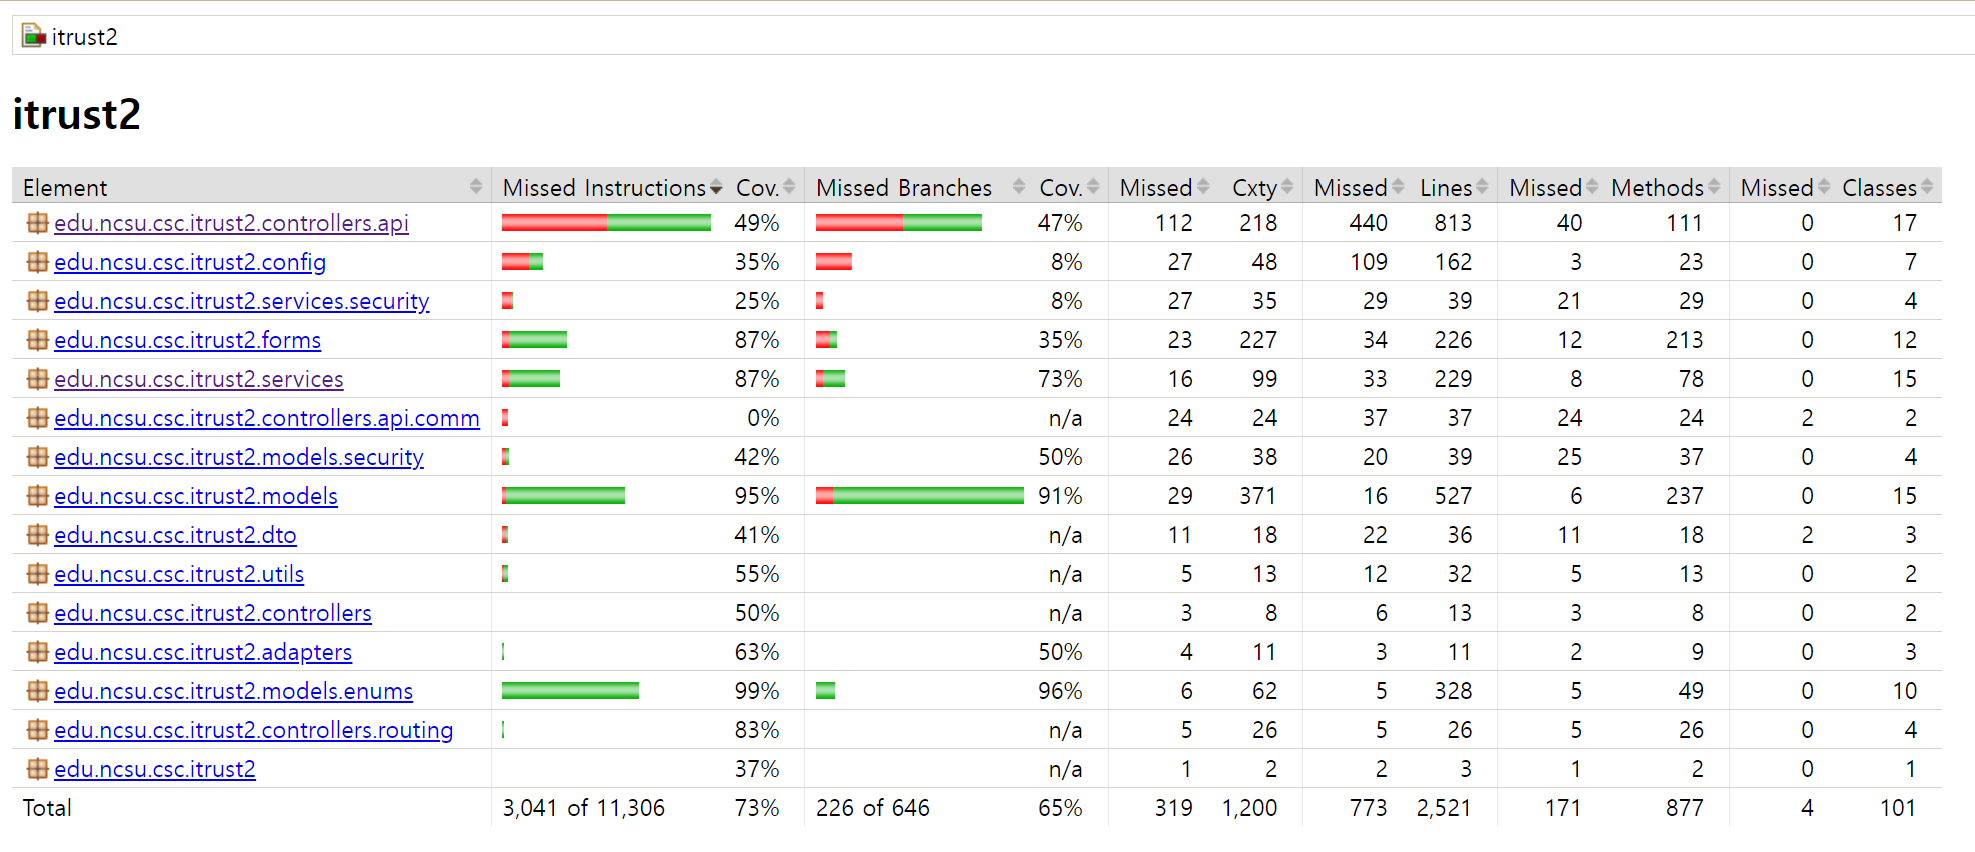
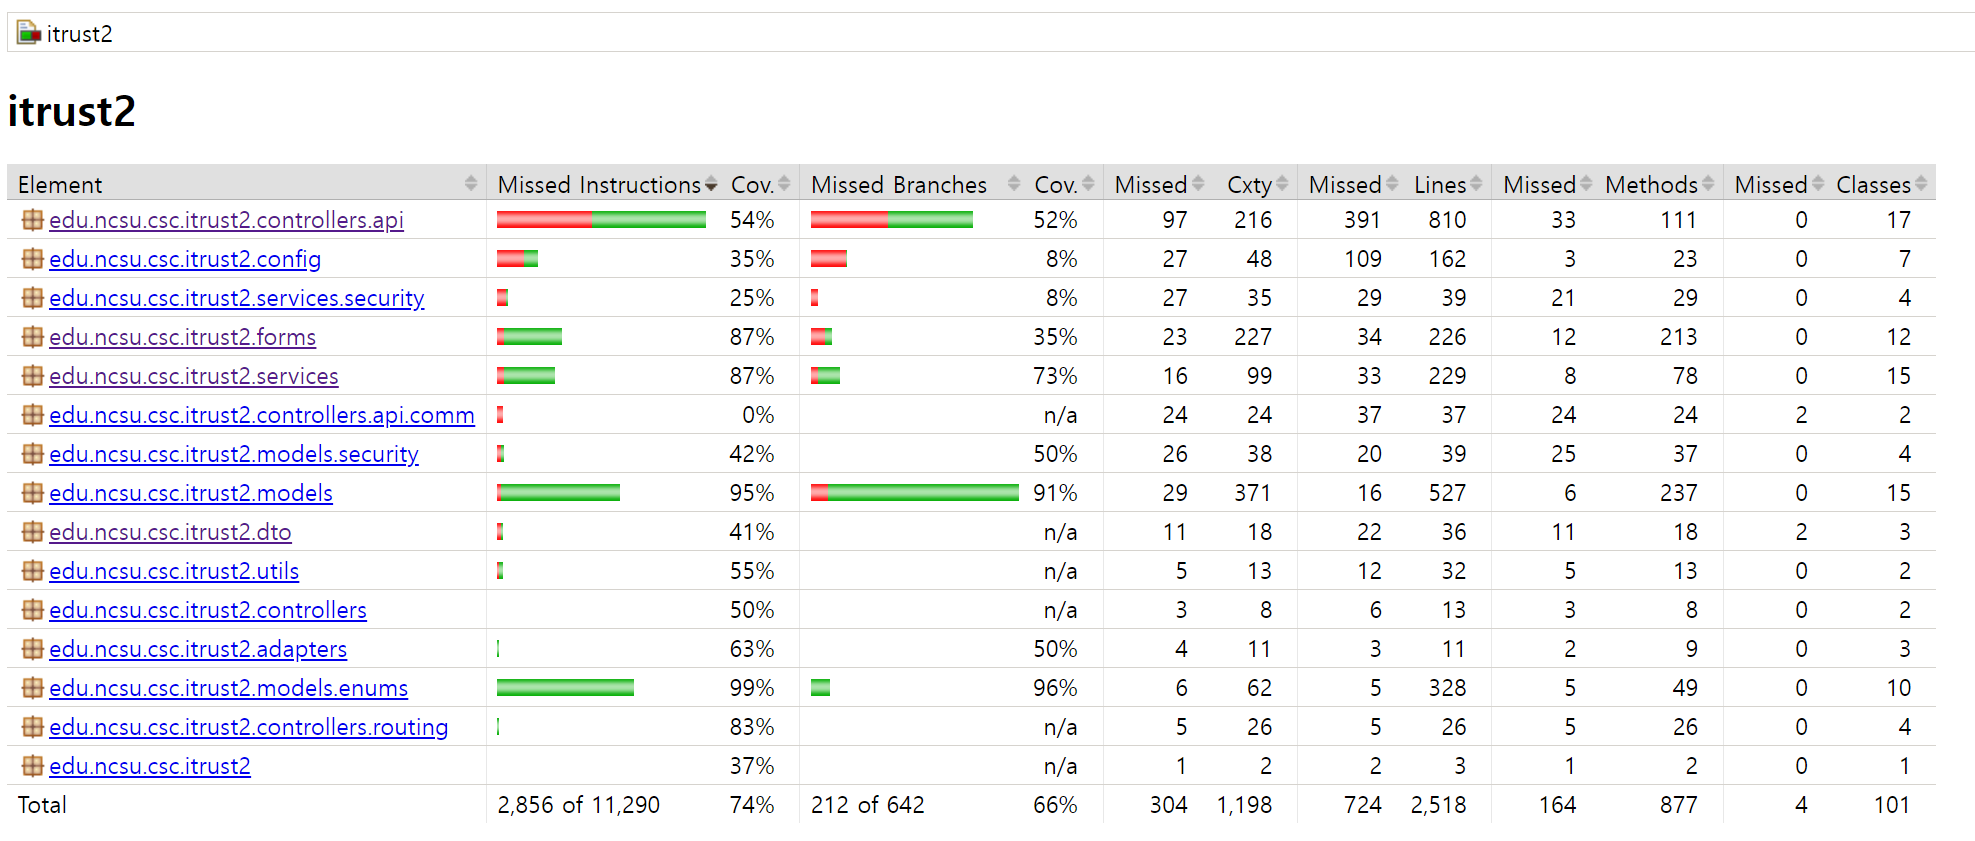
test: personnel, diagnosis, hospital, icdcode, ov
controllers test added

diff --git a/src/test/java/edu/ncsu/csc/itrust2/api/APIDiagnosisTest.java b/src/test/java/edu/ncsu/csc/itrust2/api/APIDiagnosisTest.java
@@ -37,6 +37,8 @@ import java.util.stream.Collectors;
 import static org.junit.Assert.assertTrue;
 import static org.springframework.test.web.servlet.request.MockMvcRequestBuilders.get;
 import static org.springframework.test.web.servlet.request.MockMvcRequestBuilders.put;
+import static org.springframework.test.web.servlet.result.MockMvcResultMatchers.status;
+import static org.junit.Assert.assertEquals;
 
 @RunWith(SpringRunner.class)
 @SpringBootTest
@@ -72,6 +74,16 @@ public class APIDiagnosisTest {
         final Hospital hospital =
                 new Hospital("iTrust Test Hospital 2", "1 iTrust Test Street", "27607", "NC");
         hospitalService.save(hospital);
+    }
+
+    @Test
+    @Transactional
+    @WithMockUser(
+            username = "hcp2",
+            roles = {"HCP"})
+    public void testDiagnoses2() throws Exception {
+        mvc.perform(get("/api/v1/diagnoses")).andExpect(status().isOk());
+        mvc.perform(get("/api/v1/diagnoses/dto")).andExpect(status().isOk());
     }
 
     @Test
@@ -210,7 +222,6 @@ public class APIDiagnosisTest {
         }
         assertTrue(flag);
 
-
         // edit a diagnosis within the editing of office visit and check they
         // work.
         form.setId(id + "");
@@ -289,6 +300,17 @@ public class APIDiagnosisTest {
             }
         }
         assertTrue(flag);
+
+        mvc.perform(get("/api/v1/diagnoses")).andExpect(status().isOk());
+        mvc.perform(get("/api/v1/diagnoses/dto")).andExpect(status().isOk());
+        mvc.perform(get("/api/v1/diagnosis/"+(id))).andExpect(status().isNotFound());
+        content =
+                mvc.perform(get("/api/v1/diagnosesforvisit/" + (10L)))
+                        .andReturn()
+                        .getResponse().getContentAsString();
+        assertEquals(content, "");
+
+
 
         /* Make sure all the editing didn't create any duplicates */
         Assert.assertEquals(2, diagnosisService.count());

diff --git a/src/test/java/edu/ncsu/csc/itrust2/api/APIICDCodeTest.java b/src/test/java/edu/ncsu/csc/itrust2/api/APIICDCodeTest.java
@@ -53,6 +53,11 @@ public class APIICDCodeTest {
             roles = {"USER", "ADMIN"})
     public void testCodeAPI() throws Exception {
         final ICDCodeForm form = new ICDCodeForm();
+        mvc.perform(
+        post("/api/v1/icdcodes")
+                .contentType(MediaType.APPLICATION_JSON)
+                .content(TestUtils.asJsonString(form))).andExpect(status().is4xxClientError());
+
         form.setCode("T12");
         form.setDescription("Test Code");
 
@@ -82,6 +87,11 @@ public class APIICDCodeTest {
 
         // edit it
         form.setCode("T13");
+        mvc.perform(
+                put("/api/v1/icdcode/" + form.getId()+10L)
+                        .contentType(MediaType.APPLICATION_JSON)
+                        .content(TestUtils.asJsonString(form)))
+                        .andExpect(status().isNotFound());
         content =
                 mvc.perform(
                                 put("/api/v1/icdcode/" + form.getId())
@@ -104,6 +114,10 @@ public class APIICDCodeTest {
 
         // then delete it and check that its gone.
         mvc.perform(
+                        delete("/api/v1/icdcode/" + "TTTTTTTT")
+                                .contentType(MediaType.APPLICATION_JSON))
+                .andExpect(status().is4xxClientError());
+        mvc.perform(
                         delete("/api/v1/icdcode/" + form.getId())
                                 .contentType(MediaType.APPLICATION_JSON))
                 .andExpect(status().isOk());
@@ -111,5 +125,9 @@ public class APIICDCodeTest {
         assertNull(service.findById(form.getId()));
         mvc.perform(get("/api/v1/icdcode/" + form.getId()).contentType(MediaType.APPLICATION_JSON))
                 .andExpect(status().isNotFound());
+
+        mvc.perform(
+                        get("/api/v1/icdcodes"))
+                .andExpect(status().isOk());
     }
 }

diff --git a/src/test/java/edu/ncsu/csc/itrust2/api/APIHospitalTest.java b/src/test/java/edu/ncsu/csc/itrust2/api/APIHospitalTest.java
@@ -26,7 +26,7 @@ import static org.springframework.test.web.servlet.request.MockMvcRequestBuilder
 import static org.springframework.test.web.servlet.request.MockMvcRequestBuilders.put;
 import static org.springframework.test.web.servlet.result.MockMvcResultMatchers.content;
 import static org.springframework.test.web.servlet.result.MockMvcResultMatchers.status;
-
+import static org.springframework.test.web.servlet.request.MockMvcRequestBuilders.delete;
 /**
  * Test for API functionality for interacting with Hospitals
  *
@@ -109,6 +109,18 @@ public class APIHospitalTest {
                                 .contentType(MediaType.APPLICATION_JSON)
                                 .content(TestUtils.asJsonString(hospital)))
                 .andExpect(status().isNotFound());
+        
+        mvc.perform(
+                get("/api/v1/hospitals")
+        ).andExpect(status().isOk());
+
+        mvc.perform(
+                delete("/api/v1/hospitals/iTrust Test Hospital 3")
+        ).andExpect(status().isNotFound());
+
+        mvc.perform(
+                delete("/api/v1/hospitals/iTrust Test Hospital 2")
+        ).andExpect(status().isOk());
     }
 
     @Test

diff --git a/src/test/java/edu/ncsu/csc/itrust2/api/APIPersonnelTest.java b/src/test/java/edu/ncsu/csc/itrust2/api/APIPersonnelTest.java
@@ -66,6 +66,16 @@ public class APIPersonnelTest {
         mvc.perform(get("/api/v1/personnel/-1")).andExpect(status().isNotFound());
     }
 
+    /** Tests getting a non existent personnel and ensures that the correct status is returned. */
+    @Test
+    @Transactional
+    @WithMockUser(
+            username = "hcp",
+            roles = {"HCP"})
+    public void testGetNonExistentPersonnel2() throws Exception {
+        mvc.perform(get("/api/v1/curPersonnel")).andExpect(status().isNotFound());
+    }
+
     /** Tests PersonnelAPI */
     @Test
     @Transactional
@@ -125,6 +135,10 @@ public class APIPersonnelTest {
                                 .contentType(MediaType.APPLICATION_JSON)
                                 .content(TestUtils.asJsonString(personnel)))
                 .andExpect(status().is4xxClientError());
+
+        mvc.perform(get("/api/v1/curPersonnel"))
+                .andExpect(status().isOk())
+                .andExpect(content().contentType(MediaType.APPLICATION_JSON_VALUE));
     }
 
     /** Tests getting personnel by their roles. */

diff --git a/src/main/java/edu/ncsu/csc/itrust2/controllers/api/APIPersonnelController.java b/src/main/java/edu/ncsu/csc/itrust2/controllers/api/APIPersonnelController.java
@@ -111,12 +111,12 @@ public class APIPersonnelController extends APIController {
         }
 
         fromDb.update(personnelF);
-        if ((null != fromDb.getUsername() && !id.equals(fromDb.getUsername()))) {
-            return new ResponseEntity(
-                    errorResponse(
-                            "The ID provided does not match the ID of the Personnel provided"),
-                    HttpStatus.CONFLICT);
-        }
+        // if ((null != fromDb.getUsername() && !id.equals(fromDb.getUsername()))) {
+        //     return new ResponseEntity(
+        //             errorResponse(
+        //                     "The ID provided does not match the ID of the Personnel provided"),
+        //             HttpStatus.CONFLICT);
+        // }
         try {
             service.save(fromDb);
             loggerUtil.log(TransactionType.EDIT_DEMOGRAPHICS, LoggerUtil.currentUser());

diff --git a/src/test/java/edu/ncsu/csc/itrust2/api/APIOfficeVisitTest.java b/src/test/java/edu/ncsu/csc/itrust2/api/APIOfficeVisitTest.java
@@ -466,7 +466,8 @@ public class APIOfficeVisitTest {
                         put("/api/v1/officevisits/" + tempId)
                                 .contentType(MediaType.APPLICATION_JSON)
                                 .content(TestUtils.asJsonString(visit)))
-                .andExpect(status().isNotFound());
+                // .andExpect(status().isNotFound());
+                .andExpect(status().is4xxClientError());
 
         vList.get(0).setId(0L);
         OfficeVisitForm vf = new OfficeVisitForm(vList.get(0));
